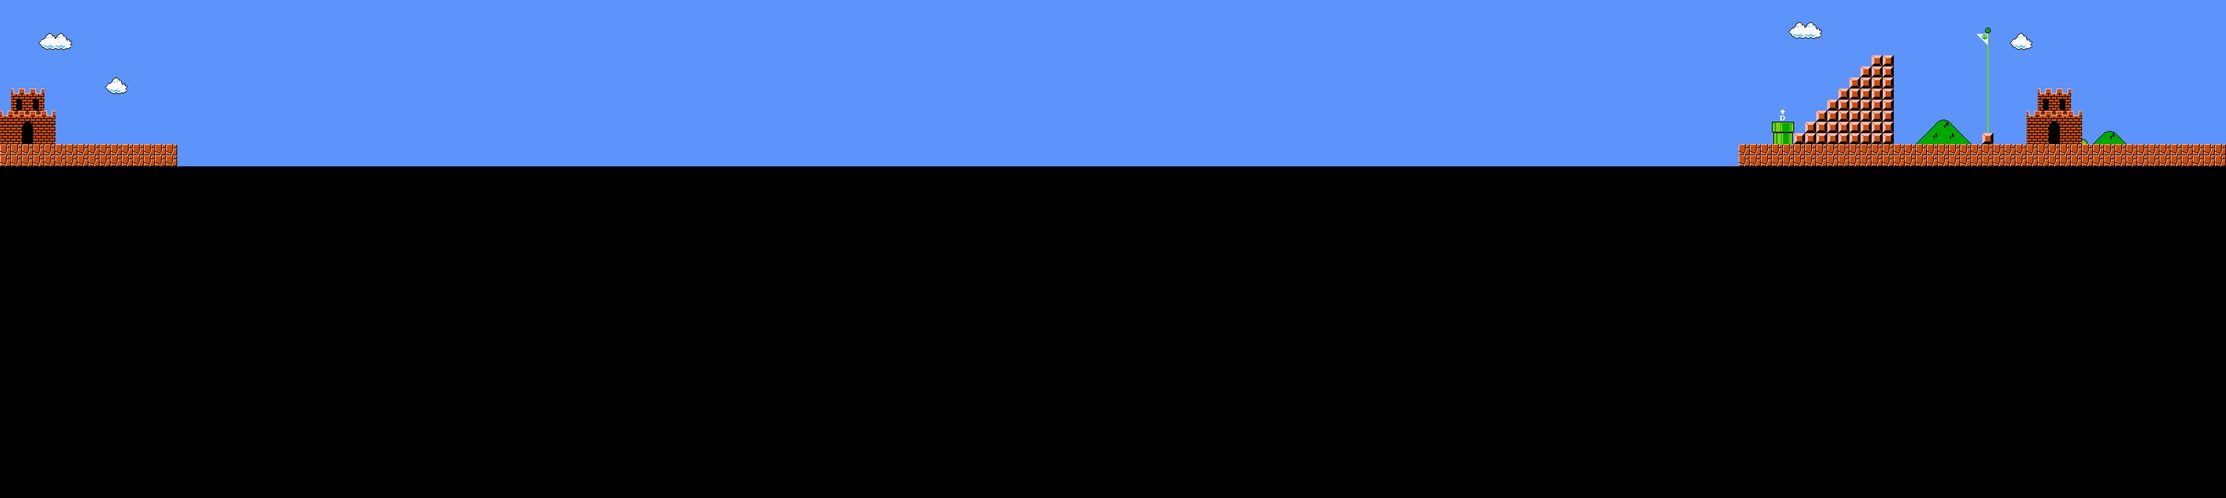
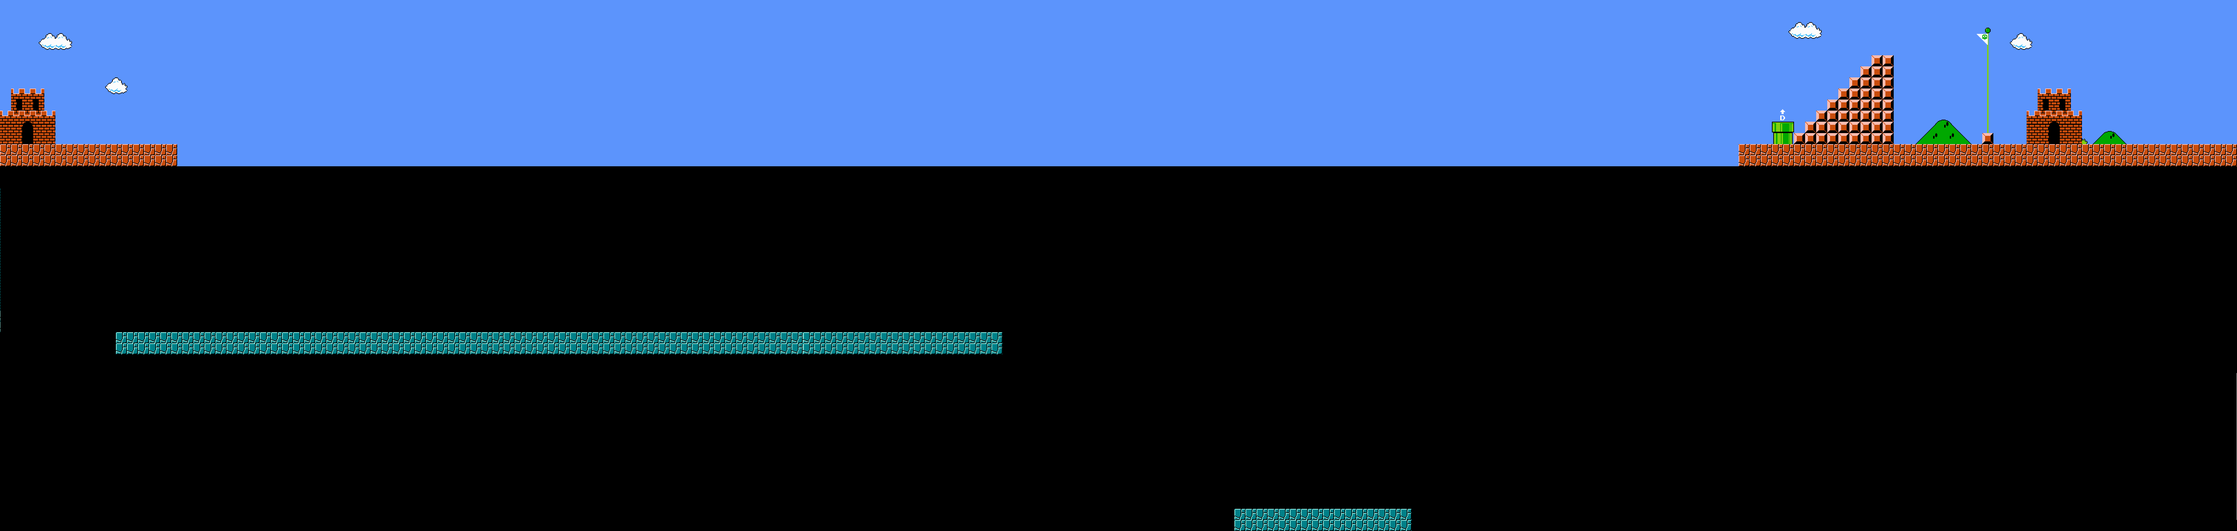
add

diff --git a/include/Level/Level2.hpp b/include/Level/Level2.hpp
@@ -8,11 +8,11 @@
 class Level2 final : public Level {
 public:
     Level2() : Level() {
-        m_Background = std::make_shared<Map>(RESOURCE_DIR "/image/Background/Level2/level_2.png",glm::vec2(-3216,720),glm::vec2(-640,360));
+        m_Background = std::make_shared<Map>(RESOURCE_DIR "/image/Background/Level2/level_2.png",glm::vec2(-3216,768),glm::vec2(-640,360));
 
         m_ManagerManager = std::make_shared<ManagerManager>(Items,Blocks,Monsters,FireBalls,m_Mario,m_renderer,m_Background);
 
-        m_ManagerManager->SetFloor(FloorBlock, -13.5);
+        m_ManagerManager->SetFloor(FloorBlock, FloorBlockSize);
         m_ManagerManager->SetBlock(LuckyBLock, BlockType::Lucky);
         // m_ManagerManager->SetBlock(OriginBlock, BlockType::Original);
         m_ManagerManager->SetBlock(FootBlock, BlockType::Foot);
@@ -24,12 +24,13 @@ public:
         m_ManagerManager->SetBlock(BlueOriginalBlock, BlockType::Blue_Original);
         m_ManagerManager->SetBlock(BlueFootBLock, BlockType::Blue_Foot);
         m_ManagerManager->SetBlock(AirBlock, BlockType::Air);
+        m_ManagerManager->SetBlock(Elevator,BlockType::Elevator);
         m_ManagerManager->SetBlock(HorizontalPipe_64_64,BlockType::HorizontalPipe_64_64);
         m_ManagerManager->SetBlock(LongPipe,BlockType::LongPipe);
 
         m_ManagerManager->SetItem(Item_Mushroom, ItemType::Item_Mushroom);
         // m_ManagerManager->SetItem(Item_FireFlower, ItemType::Item_FireFlower);
-         m_ManagerManager->SetItem(Item_Coin, ItemType::Item_Coin);
+        m_ManagerManager->SetItem(Item_Coin, ItemType::Item_Coin);
         // m_ManagerManager->SetItem(Item_Star,ItemType::Item_Star);
         m_ManagerManager->SetItem(Item_OutSideCoin, ItemType::Item_OutSideCoin);
 
@@ -47,12 +48,13 @@ public:
     };
 private:
 
-    std::vector<float> FloorBlock = {};
+    std::vector<glm::vec2> FloorBlock = {{100.5,-14},{50.5f,-31},{120.5,-47}};
+    std::vector<glm::vec2> FloorBlockSize = {{201.f,2.0f},{79.0f,2.0f},{18,2.0f}};
     std::vector<glm::vec2> BlueOriginalBlock = {
     {171.5,-18.5}, {172.5,-18.5}, {173.5,-18.5}, {174.5,-18.5}, {175.5,-18.5}, {176.5,-18.5}, {177.5,-18.5}, {180.5,-18.5}, {181.5,-18.5}, {182.5,-18.5}, {183.5,-18.5}, {184.5,-18.5}, {185.5,-18.5}, {186.5,-18.5}, {187.5,-18.5}, {188.5,-18.5}, {189.5,-18.5}, {190.5,-18.5}, {191.5,-18.5}, {192.5,-18.5}, {193.5,-18.5}, {194.5,-18.5}, {195.5,-18.5}, {196.5,-18.5}, {197.5,-18.5}, {198.5,-18.5}, {200.5,-18.5}, {10.5,-19.5}, {16.5,-19.5}, {17.5,-19.5}, {18.5,-19.5}, {19.5,-19.5}, {20.5,-19.5}, {21.5,-19.5}, {22.5,-19.5}, {23.5,-19.5}, {24.5,-19.5}, {25.5,-19.5}, {26.5,-19.5}, {27.5,-19.5}, {28.5,-19.5}, {29.5,-19.5}, {30.5,-19.5}, {31.5,-19.5}, {32.5,-19.5}, {33.5,-19.5}, {34.5,-19.5}, {35.5,-19.5}, {36.5,-19.5}, {37.5,-19.5}, {38.5,-19.5}, {39.5,-19.5}, {40.5,-19.5}, {41.5,-19.5}, {42.5,-19.5}, {43.5,-19.5}, {44.5,-19.5}, {45.5,-19.5}, {46.5,-19.5}, {47.5,-19.5}, {48.5,-19.5}, {49.5,-19.5}, {50.5,-19.5}, {51.5,-19.5}, {52.5,-19.5}, {53.5,-19.5}, {54.5,-19.5}, {55.5,-19.5}, {56.5,-19.5}, {57.5,-19.5}, {58.5,-19.5}, {59.5,-19.5}, {60.5,-19.5}, {61.5,-19.5}, {62.5,-19.5}, {63.5,-19.5}, {64.5,-19.5}, {65.5,-19.5}, {66.5,-19.5}, {67.5,-19.5}, {68.5,-19.5}, {69.5,-19.5}, {70.5,-19.5}, {71.5,-19.5}, {72.5,-19.5}, {73.5,-19.5}, {74.5,-19.5}, {75.5,-19.5}, {76.5,-19.5}, {77.5,-19.5}, {78.5,-19.5}, {79.5,-19.5}, {80.5,-19.5}, {81.5,-19.5}, {82.5,-19.5}, {83.5,-19.5}, {84.5,-19.5}, {85.5,-19.5}, {86.5,-19.5}, {87.5,-19.5}, {88.5,-19.5}, {89.5,-19.5}, {90.5,-19.5}, {91.5,-19.5}, {92.5,-19.5}, {93.5,-19.5}, {94.5,-19.5}, {95.5,-19.5}, {96.5,-19.5}, {97.5,-19.5}, {98.5,-19.5}, {99.5,-19.5}, {100.5,-19.5}, {101.5,-19.5}, {102.5,-19.5}, {103.5,-19.5}, {104.5,-19.5}, {105.5,-19.5}, {106.5,-19.5}, {107.5,-19.5}, {108.5,-19.5}, {109.5,-19.5}, {110.5,-19.5}, {111.5,-19.5}, {112.5,-19.5}, {113.5,-19.5}, {114.5,-19.5}, {115.5,-19.5}, {116.5,-19.5}, {117.5,-19.5}, {118.5,-19.5}, {119.5,-19.5}, {120.5,-19.5}, {121.5,-19.5}, {122.5,-19.5}, {123.5,-19.5}, {124.5,-19.5}, {125.5,-19.5}, {126.5,-19.5}, {127.5,-19.5}, {128.5,-19.5}, {129.5,-19.5}, {130.5,-19.5}, {131.5,-19.5}, {132.5,-19.5}, {133.5,-19.5}, {134.5,-19.5}, {135.5,-19.5}, {136.5,-19.5}, {137.5,-19.5}, {138.5,-19.5}, {139.5,-19.5}, {140.5,-19.5}, {141.5,-19.5}, {142.5,-19.5}, {143.5,-19.5}, {144.5,-19.5}, {145.5,-19.5}, {146.5,-19.5}, {147.5,-19.5}, {171.5,-19.5}, {172.5,-19.5}, {173.5,-19.5}, {174.5,-19.5}, {175.5,-19.5}, {176.5,-19.5}, {177.5,-19.5}, {180.5,-19.5}, {181.5,-19.5}, {182.5,-19.5}, {183.5,-19.5}, {184.5,-19.5}, {185.5,-19.5}, {186.5,-19.5}, {187.5,-19.5}, {188.5,-19.5}, {189.5,-19.5}, {190.5,-19.5}, {191.5,-19.5}, {192.5,-19.5}, {193.5,-19.5}, {194.5,-19.5}, {195.5,-19.5}, {196.5,-19.5}, {197.5,-19.5}, {198.5,-19.5}, {200.5,-19.5}, {10.5,-20.5}, {64.5,-20.5}, {65.5,-20.5}, {68.5,-20.5}, {69.5,-20.5}, {70.5,-20.5}, {71.5,-20.5}, {72.5,-20.5}, {73.5,-20.5}, {76.5,-20.5}, {77.5,-20.5}, {78.5,-20.5}, {79.5,-20.5}, {86.5,-20.5}, {87.5,-20.5}, {88.5,-20.5}, {89.5,-20.5}, {180.5,-20.5}, {181.5,-20.5}, {182.5,-20.5}, {183.5,-20.5}, {184.5,-20.5}, {185.5,-20.5}, {186.5,-20.5}, {187.5,-20.5}, {188.5,-20.5}, {198.5,-20.5}, {200.5,-20.5}, {10.5,-21.5}, {64.5,-21.5}, {65.5,-21.5}, {68.5,-21.5}, {69.5,-21.5}, {70.5,-21.5}, {71.5,-21.5}, {72.5,-21.5}, {73.5,-21.5}, {76.5,-21.5}, {77.5,-21.5}, {78.5,-21.5}, {79.5,-21.5}, {86.5,-21.5}, {87.5,-21.5}, {88.5,-21.5}, {89.5,-21.5}, {180.5,-21.5}, {181.5,-21.5}, {182.5,-21.5}, {183.5,-21.5}, {184.5,-21.5}, {185.5,-21.5}, {186.5,-21.5}, {187.5,-21.5}, {188.5,-21.5}, {198.5,-21.5}, {200.5,-21.5}, {10.5,-22.5}, {62.5,-22.5}, {63.5,-22.5}, {72.5,-22.5}, {73.5,-22.5}, {77.5,-22.5}, {82.5,-22.5}, {83.5,-22.5}, {180.5,-22.5}, {181.5,-22.5}, {182.5,-22.5}, {183.5,-22.5}, {184.5,-22.5}, {185.5,-22.5}, {186.5,-22.5}, {187.5,-22.5}, {188.5,-22.5}, {190.5,-22.5}, {196.5,-22.5}, {198.5,-22.5}, {200.5,-22.5}, {10.5,-23.5}, {62.5,-23.5}, {63.5,-23.5}, {72.5,-23.5}, {73.5,-23.5}, {77.5,-23.5}, {82.5,-23.5}, {83.5,-23.5}, {180.5,-23.5}, {181.5,-23.5}, {182.5,-23.5}, {183.5,-23.5}, {184.5,-23.5}, {185.5,-23.5}, {186.5,-23.5}, {187.5,-23.5}, {188.5,-23.5}, {198.5,-23.5}, {200.5,-23.5}, {10.5,-24.5}, {49.5,-24.5}, {51.5,-24.5}, {52.5,-24.5}, {53.5,-24.5}, {54.5,-24.5}, {56.5,-24.5}, {62.5,-24.5}, {63.5,-24.5}, {72.5,-24.5}, {73.5,-24.5}, {77.5,-24.5}, {82.5,-24.5}, {83.5,-24.5}, {94.5,-24.5}, {95.5,-24.5}, {96.5,-24.5}, {97.5,-24.5}, {98.5,-24.5}, {99.5,-24.5}, {180.5,-24.5}, {181.5,-24.5}, {182.5,-24.5}, {183.5,-24.5}, {184.5,-24.5}, {185.5,-24.5}, {186.5,-24.5}, {187.5,-24.5}, {188.5,-24.5}, {193.5,-24.5}, {198.5,-24.5}, {200.5,-24.5}, {10.5,-25.5}, {39.5,-25.5}, {49.5,-25.5}, {51.5,-25.5}, {54.5,-25.5}, {56.5,-25.5}, {62.5,-25.5}, {63.5,-25.5}, {68.5,-25.5}, {72.5,-25.5}, {73.5,-25.5}, {77.5,-25.5}, {79.5,-25.5}, {82.5,-25.5}, {83.5,-25.5}, {94.5,-25.5}, {95.5,-25.5}, {96.5,-25.5}, {97.5,-25.5}, {98.5,-25.5}, {99.5,-25.5}, {155.5,-25.5}, {156.5,-25.5}, {157.5,-25.5}, {158.5,-25.5}, {159.5,-25.5}, {160.5,-25.5}, {180.5,-25.5}, {181.5,-25.5}, {182.5,-25.5}, {183.5,-25.5}, {184.5,-25.5}, {185.5,-25.5}, {186.5,-25.5}, {187.5,-25.5}, {188.5,-25.5}, {193.5,-25.5}, {198.5,-25.5}, {200.5,-25.5}, {10.5,-26.5}, {49.5,-26.5}, {50.5,-26.5}, {51.5,-26.5}, {54.5,-26.5}, {55.5,-26.5}, {56.5,-26.5}, {62.5,-26.5}, {63.5,-26.5}, {64.5,-26.5}, {65.5,-26.5}, {68.5,-26.5}, {69.5,-26.5}, {70.5,-26.5}, {71.5,-26.5}, {72.5,-26.5}, {73.5,-26.5}, {77.5,-26.5}, {78.5,-26.5}, {79.5,-26.5}, {82.5,-26.5}, {83.5,-26.5}, {86.5,-26.5}, {87.5,-26.5}, {88.5,-26.5}, {89.5,-26.5}, {180.5,-26.5}, {181.5,-26.5}, {182.5,-26.5}, {183.5,-26.5}, {184.5,-26.5}, {185.5,-26.5}, {186.5,-26.5}, {187.5,-26.5}, {188.5,-26.5}, {190.5,-26.5}, {196.5,-26.5}, {198.5,-26.5}, {200.5,-26.5}, {10.5,-27.5}, {64.5,-27.5}, {65.5,-27.5}, {132.5,-27.5}, {133.5,-27.5}, {170.5,-27.5}, {171.5,-27.5}, {172.5,-27.5}, {173.5,-27.5}, {174.5,-27.5}, {175.5,-27.5}, {176.5,-27.5}, {177.5,-27.5}, {178.5,-27.5}, {179.5,-27.5}, {180.5,-27.5}, {181.5,-27.5}, {182.5,-27.5}, {183.5,-27.5}, {184.5,-27.5}, {185.5,-27.5}, {186.5,-27.5}, {187.5,-27.5}, {188.5,-27.5}, {190.5,-27.5}, {196.5,-27.5}, {198.5,-27.5}, {200.5,-27.5}, {10.5,-28.5}, {64.5,-28.5}, {65.5,-28.5}, {132.5,-28.5}, {133.5,-28.5}, {170.5,-28.5}, {171.5,-28.5}, {172.5,-28.5}, {173.5,-28.5}, {174.5,-28.5}, {175.5,-28.5}, {176.5,-28.5}, {177.5,-28.5}, {178.5,-28.5}, {179.5,-28.5}, {180.5,-28.5}, {181.5,-28.5}, {182.5,-28.5}, {183.5,-28.5}, {184.5,-28.5}, {185.5,-28.5}, {186.5,-28.5}, {187.5,-28.5}, {188.5,-28.5}, {191.5,-28.5}, {192.5,-28.5}, {193.5,-28.5}, {194.5,-28.5}, {195.5,-28.5}, {198.5,-28.5}, {200.5,-28.5}, {10.5,-29.5}, {132.5,-29.5}, {133.5,-29.5}, {170.5,-29.5}, {171.5,-29.5}, {172.5,-29.5}, {173.5,-29.5}, {174.5,-29.5}, {175.5,-29.5}, {176.5,-29.5}, {177.5,-29.5}, {178.5,-29.5}, {179.5,-29.5}, {180.5,-29.5}, {181.5,-29.5}, {182.5,-29.5}, {183.5,-29.5}, {184.5,-29.5}, {185.5,-29.5}, {186.5,-29.5}, {187.5,-29.5}, {188.5,-29.5}, {200.5,-29.5}, {111.5,-32.5}, {115.5,-32.5}, {111.5,-33.5}, {115.5,-33.5}, {111.5,-34.5}, {115.5,-34.5}, {111.5,-35.5}, {115.5,-35.5}, {116.5,-35.5}, {117.5,-35.5}, {118.5,-35.5}, {119.5,-35.5}, {120.5,-35.5}, {121.5,-35.5}, {122.5,-35.5}, {123.5,-35.5}, {124.5,-35.5}, {125.5,-35.5}, {126.5,-35.5}, {129.5,-35.5}, {111.5,-36.5}, {115.5,-36.5}, {116.5,-36.5}, {117.5,-36.5}, {118.5,-36.5}, {119.5,-36.5}, {120.5,-36.5}, {121.5,-36.5}, {122.5,-36.5}, {123.5,-36.5}, {124.5,-36.5}, {125.5,-36.5}, {126.5,-36.5}, {129.5,-36.5}, {111.5,-37.5}, {115.5,-37.5}, {116.5,-37.5}, {117.5,-37.5}, {118.5,-37.5}, {119.5,-37.5}, {120.5,-37.5}, {121.5,-37.5}, {122.5,-37.5}, {123.5,-37.5}, {124.5,-37.5}, {125.5,-37.5}, {126.5,-37.5}, {129.5,-37.5}, {111.5,-38.5}, {115.5,-38.5}, {116.5,-38.5}, {117.5,-38.5}, {118.5,-38.5}, {119.5,-38.5}, {120.5,-38.5}, {121.5,-38.5}, {122.5,-38.5}, {123.5,-38.5}, {124.5,-38.5}, {125.5,-38.5}, {126.5,-38.5}, {129.5,-38.5}, {111.5,-39.5}, {125.5,-39.5}, {126.5,-39.5}, {129.5,-39.5}, {111.5,-40.5}, {125.5,-40.5}, {126.5,-40.5}, {129.5,-40.5}, {111.5,-41.5}, {125.5,-41.5}, {126.5,-41.5}, {129.5,-41.5}, {111.5,-42.5}, {115.5,-42.5}, {116.5,-42.5}, {117.5,-42.5}, {118.5,-42.5}, {119.5,-42.5}, {120.5,-42.5}, {121.5,-42.5}, {122.5,-42.5}, {123.5,-42.5}, {124.5,-42.5}, {125.5,-42.5}, {126.5,-42.5}, {129.5,-42.5}, {111.5,-43.5}, {125.5,-43.5}, {126.5,-43.5}, {129.5,-43.5}, {111.5,-44.5}, {129.5,-44.5}, {111.5,-45.5}, {129.5,-45.5}
     };
-    std::vector<glm::vec2> BlueFloorBlock = {
-    {10.5,-30.5}, {11.5,-30.5}, {12.5,-30.5}, {13.5,-30.5}, {14.5,-30.5}, {15.5,-30.5}, {16.5,-30.5}, {17.5,-30.5}, {18.5,-30.5}, {19.5,-30.5}, {20.5,-30.5}, {21.5,-30.5}, {22.5,-30.5}, {23.5,-30.5}, {24.5,-30.5}, {25.5,-30.5}, {26.5,-30.5}, {27.5,-30.5}, {28.5,-30.5}, {29.5,-30.5}, {30.5,-30.5}, {31.5,-30.5}, {32.5,-30.5}, {33.5,-30.5}, {34.5,-30.5}, {35.5,-30.5}, {36.5,-30.5}, {37.5,-30.5}, {38.5,-30.5}, {39.5,-30.5}, {40.5,-30.5}, {41.5,-30.5}, {42.5,-30.5}, {43.5,-30.5}, {44.5,-30.5}, {45.5,-30.5}, {46.5,-30.5}, {47.5,-30.5}, {48.5,-30.5}, {49.5,-30.5}, {50.5,-30.5}, {51.5,-30.5}, {52.5,-30.5}, {53.5,-30.5}, {54.5,-30.5}, {55.5,-30.5}, {56.5,-30.5}, {57.5,-30.5}, {58.5,-30.5}, {59.5,-30.5}, {60.5,-30.5}, {61.5,-30.5}, {62.5,-30.5}, {63.5,-30.5}, {64.5,-30.5}, {65.5,-30.5}, {66.5,-30.5}, {67.5,-30.5}, {68.5,-30.5}, {69.5,-30.5}, {70.5,-30.5}, {71.5,-30.5}, {72.5,-30.5}, {73.5,-30.5}, {74.5,-30.5}, {75.5,-30.5}, {76.5,-30.5}, {77.5,-30.5}, {78.5,-30.5}, {79.5,-30.5}, {80.5,-30.5}, {81.5,-30.5}, {82.5,-30.5}, {83.5,-30.5}, {84.5,-30.5}, {85.5,-30.5}, {86.5,-30.5}, {87.5,-30.5}, {88.5,-30.5}, {89.5,-30.5}, {93.5,-30.5}, {94.5,-30.5}, {95.5,-30.5}, {96.5,-30.5}, {97.5,-30.5}, {98.5,-30.5}, {99.5,-30.5}, {100.5,-30.5}, {101.5,-30.5}, {102.5,-30.5}, {103.5,-30.5}, {104.5,-30.5}, {105.5,-30.5}, {106.5,-30.5}, {107.5,-30.5}, {108.5,-30.5}, {109.5,-30.5}, {110.5,-30.5}, {111.5,-30.5}, {112.5,-30.5}, {113.5,-30.5}, {114.5,-30.5}, {115.5,-30.5}, {116.5,-30.5}, {117.5,-30.5}, {118.5,-30.5}, {119.5,-30.5}, {120.5,-30.5}, {121.5,-30.5}, {122.5,-30.5}, {123.5,-30.5}, {124.5,-30.5}, {125.5,-30.5}, {126.5,-30.5}, {127.5,-30.5}, {128.5,-30.5}, {129.5,-30.5}, {132.5,-30.5}, {133.5,-30.5}, {136.5,-30.5}, {137.5,-30.5}, {138.5,-30.5}, {139.5,-30.5}, {140.5,-30.5}, {141.5,-30.5}, {142.5,-30.5}, {143.5,-30.5}, {144.5,-30.5}, {145.5,-30.5}, {146.5,-30.5}, {147.5,-30.5}, {155.5,-30.5}, {156.5,-30.5}, {157.5,-30.5}, {158.5,-30.5}, {159.5,-30.5}, {160.5,-30.5}, {161.5,-30.5}, {162.5,-30.5}, {170.5,-30.5}, {171.5,-30.5}, {172.5,-30.5}, {173.5,-30.5}, {174.5,-30.5}, {175.5,-30.5}, {176.5,-30.5}, {177.5,-30.5}, {178.5,-30.5}, {179.5,-30.5}, {180.5,-30.5}, {181.5,-30.5}, {182.5,-30.5}, {183.5,-30.5}, {184.5,-30.5}, {185.5,-30.5}, {186.5,-30.5}, {187.5,-30.5}, {188.5,-30.5}, {189.5,-30.5}, {190.5,-30.5}, {191.5,-30.5}, {192.5,-30.5}, {193.5,-30.5}, {194.5,-30.5}, {195.5,-30.5}, {196.5,-30.5}, {197.5,-30.5}, {198.5,-30.5}, {199.5,-30.5}, {200.5,-30.5}, {10.5,-31.5}, {11.5,-31.5}, {12.5,-31.5}, {13.5,-31.5}, {14.5,-31.5}, {15.5,-31.5}, {16.5,-31.5}, {17.5,-31.5}, {18.5,-31.5}, {19.5,-31.5}, {20.5,-31.5}, {21.5,-31.5}, {22.5,-31.5}, {23.5,-31.5}, {24.5,-31.5}, {25.5,-31.5}, {26.5,-31.5}, {27.5,-31.5}, {28.5,-31.5}, {29.5,-31.5}, {30.5,-31.5}, {31.5,-31.5}, {32.5,-31.5}, {33.5,-31.5}, {34.5,-31.5}, {35.5,-31.5}, {36.5,-31.5}, {37.5,-31.5}, {38.5,-31.5}, {39.5,-31.5}, {40.5,-31.5}, {41.5,-31.5}, {42.5,-31.5}, {43.5,-31.5}, {44.5,-31.5}, {45.5,-31.5}, {46.5,-31.5}, {47.5,-31.5}, {48.5,-31.5}, {49.5,-31.5}, {50.5,-31.5}, {51.5,-31.5}, {52.5,-31.5}, {53.5,-31.5}, {54.5,-31.5}, {55.5,-31.5}, {56.5,-31.5}, {57.5,-31.5}, {58.5,-31.5}, {59.5,-31.5}, {60.5,-31.5}, {61.5,-31.5}, {62.5,-31.5}, {63.5,-31.5}, {64.5,-31.5}, {65.5,-31.5}, {66.5,-31.5}, {67.5,-31.5}, {68.5,-31.5}, {69.5,-31.5}, {70.5,-31.5}, {71.5,-31.5}, {72.5,-31.5}, {73.5,-31.5}, {74.5,-31.5}, {75.5,-31.5}, {76.5,-31.5}, {77.5,-31.5}, {78.5,-31.5}, {79.5,-31.5}, {80.5,-31.5}, {81.5,-31.5}, {82.5,-31.5}, {83.5,-31.5}, {84.5,-31.5}, {85.5,-31.5}, {86.5,-31.5}, {87.5,-31.5}, {88.5,-31.5}, {89.5,-31.5}, {93.5,-31.5}, {94.5,-31.5}, {95.5,-31.5}, {96.5,-31.5}, {97.5,-31.5}, {98.5,-31.5}, {99.5,-31.5}, {100.5,-31.5}, {101.5,-31.5}, {102.5,-31.5}, {103.5,-31.5}, {104.5,-31.5}, {105.5,-31.5}, {106.5,-31.5}, {107.5,-31.5}, {108.5,-31.5}, {109.5,-31.5}, {110.5,-31.5}, {111.5,-31.5}, {112.5,-31.5}, {113.5,-31.5}, {114.5,-31.5}, {115.5,-31.5}, {116.5,-31.5}, {117.5,-31.5}, {118.5,-31.5}, {119.5,-31.5}, {120.5,-31.5}, {121.5,-31.5}, {122.5,-31.5}, {123.5,-31.5}, {124.5,-31.5}, {125.5,-31.5}, {126.5,-31.5}, {127.5,-31.5}, {128.5,-31.5}, {129.5,-31.5}, {132.5,-31.5}, {133.5,-31.5}, {136.5,-31.5}, {137.5,-31.5}, {138.5,-31.5}, {139.5,-31.5}, {140.5,-31.5}, {141.5,-31.5}, {142.5,-31.5}, {143.5,-31.5}, {144.5,-31.5}, {145.5,-31.5}, {146.5,-31.5}, {147.5,-31.5}, {155.5,-31.5}, {156.5,-31.5}, {157.5,-31.5}, {158.5,-31.5}, {159.5,-31.5}, {160.5,-31.5}, {161.5,-31.5}, {162.5,-31.5}, {170.5,-31.5}, {171.5,-31.5}, {172.5,-31.5}, {173.5,-31.5}, {174.5,-31.5}, {175.5,-31.5}, {176.5,-31.5}, {177.5,-31.5}, {178.5,-31.5}, {179.5,-31.5}, {180.5,-31.5}, {181.5,-31.5}, {182.5,-31.5}, {183.5,-31.5}, {184.5,-31.5}, {185.5,-31.5}, {186.5,-31.5}, {187.5,-31.5}, {188.5,-31.5}, {189.5,-31.5}, {190.5,-31.5}, {191.5,-31.5}, {192.5,-31.5}, {193.5,-31.5}, {194.5,-31.5}, {195.5,-31.5}, {196.5,-31.5}, {197.5,-31.5}, {198.5,-31.5}, {199.5,-31.5}, {200.5,-31.5}, {111.5,-46.5}, {112.5,-46.5}, {113.5,-46.5}, {114.5,-46.5}, {115.5,-46.5}, {116.5,-46.5}, {117.5,-46.5}, {118.5,-46.5}, {119.5,-46.5}, {120.5,-46.5}, {121.5,-46.5}, {122.5,-46.5}, {123.5,-46.5}, {124.5,-46.5}, {125.5,-46.5}, {126.5,-46.5}, {127.5,-46.5}, {128.5,-46.5}, {129.5,-46.5}, {111.5,-47.5}, {112.5,-47.5}, {113.5,-47.5}, {114.5,-47.5}, {115.5,-47.5}, {116.5,-47.5}, {117.5,-47.5}, {118.5,-47.5}, {119.5,-47.5}, {120.5,-47.5}, {121.5,-47.5}, {122.5,-47.5}, {123.5,-47.5}, {124.5,-47.5}, {125.5,-47.5}, {126.5,-47.5}, {127.5,-47.5}, {128.5,-47.5}, {129.5,-47.5}, {111.5,-48.5}, {112.5,-48.5}, {113.5,-48.5}, {114.5,-48.5}, {115.5,-48.5}, {116.5,-48.5}, {117.5,-48.5}, {118.5,-48.5}, {119.5,-48.5}, {120.5,-48.5}, {121.5,-48.5}, {122.5,-48.5}, {123.5,-48.5}, {124.5,-48.5}, {125.5,-48.5}, {126.5,-48.5}, {127.5,-48.5}, {128.5,-48.5}, {129.5,-48.5}
+     std::vector<glm::vec2> BlueFloorBlock = {
+     {128.5,-46.5},{129.5,-46.5},{129.5,-47.5},{128.5,-47.5},{127.5,-46.5},{128.5,-46.5},{127.5,-47.5},{126.5,-47.5},{125.5,-47.5},{93.5,-30.5}, {94.5,-30.5}, {95.5,-30.5}, {96.5,-30.5}, {97.5,-30.5}, {98.5,-30.5}, {99.5,-30.5}, {100.5,-30.5}, {101.5,-30.5}, {102.5,-30.5}, {103.5,-30.5}, {104.5,-30.5}, {105.5,-30.5}, {106.5,-30.5}, {107.5,-30.5}, {108.5,-30.5}, {109.5,-30.5}, {110.5,-30.5}, {111.5,-30.5}, {112.5,-30.5}, {113.5,-30.5}, {114.5,-30.5}, {115.5,-30.5}, {116.5,-30.5}, {117.5,-30.5}, {118.5,-30.5}, {119.5,-30.5}, {120.5,-30.5}, {121.5,-30.5}, {122.5,-30.5}, {123.5,-30.5}, {124.5,-30.5}, {125.5,-30.5}, {126.5,-30.5}, {127.5,-30.5}, {128.5,-30.5}, {129.5,-30.5}, {132.5,-30.5}, {133.5,-30.5}, {136.5,-30.5}, {137.5,-30.5}, {138.5,-30.5}, {139.5,-30.5}, {140.5,-30.5}, {141.5,-30.5}, {142.5,-30.5}, {143.5,-30.5}, {144.5,-30.5}, {145.5,-30.5}, {146.5,-30.5}, {147.5,-30.5}, {155.5,-30.5}, {156.5,-30.5}, {157.5,-30.5}, {158.5,-30.5}, {159.5,-30.5}, {160.5,-30.5}, {161.5,-30.5}, {162.5,-30.5}, {170.5,-30.5}, {171.5,-30.5}, {172.5,-30.5}, {173.5,-30.5}, {174.5,-30.5}, {175.5,-30.5}, {176.5,-30.5}, {177.5,-30.5}, {178.5,-30.5}, {179.5,-30.5}, {180.5,-30.5}, {181.5,-30.5}, {182.5,-30.5}, {183.5,-30.5}, {184.5,-30.5}, {185.5,-30.5}, {186.5,-30.5}, {187.5,-30.5}, {188.5,-30.5}, {189.5,-30.5}, {190.5,-30.5}, {191.5,-30.5}, {192.5,-30.5}, {193.5,-30.5}, {194.5,-30.5}, {195.5,-30.5}, {196.5,-30.5}, {197.5,-30.5}, {198.5,-30.5}, {199.5,-30.5}, {200.5,-30.5},  {93.5,-31.5}, {94.5,-31.5}, {95.5,-31.5}, {96.5,-31.5}, {97.5,-31.5}, {98.5,-31.5}, {99.5,-31.5}, {100.5,-31.5}, {101.5,-31.5}, {102.5,-31.5}, {103.5,-31.5}, {104.5,-31.5}, {105.5,-31.5}, {106.5,-31.5}, {107.5,-31.5}, {108.5,-31.5}, {109.5,-31.5}, {110.5,-31.5}, {111.5,-31.5}, {112.5,-31.5}, {113.5,-31.5}, {114.5,-31.5}, {115.5,-31.5}, {116.5,-31.5}, {117.5,-31.5}, {118.5,-31.5}, {119.5,-31.5}, {120.5,-31.5}, {121.5,-31.5}, {122.5,-31.5}, {123.5,-31.5}, {124.5,-31.5}, {125.5,-31.5}, {126.5,-31.5}, {127.5,-31.5}, {128.5,-31.5}, {129.5,-31.5}, {132.5,-31.5}, {133.5,-31.5}, {136.5,-31.5}, {137.5,-31.5}, {138.5,-31.5}, {139.5,-31.5}, {140.5,-31.5}, {141.5,-31.5}, {142.5,-31.5}, {143.5,-31.5}, {144.5,-31.5}, {145.5,-31.5}, {146.5,-31.5}, {147.5,-31.5}, {155.5,-31.5}, {156.5,-31.5}, {157.5,-31.5}, {158.5,-31.5}, {159.5,-31.5}, {160.5,-31.5}, {161.5,-31.5}, {162.5,-31.5}, {170.5,-31.5}, {171.5,-31.5}, {172.5,-31.5}, {173.5,-31.5}, {174.5,-31.5}, {175.5,-31.5}, {176.5,-31.5}, {177.5,-31.5}, {178.5,-31.5}, {179.5,-31.5}, {180.5,-31.5}, {181.5,-31.5}, {182.5,-31.5}, {183.5,-31.5}, {184.5,-31.5}, {185.5,-31.5}, {186.5,-31.5}, {187.5,-31.5}, {188.5,-31.5}, {189.5,-31.5}, {190.5,-31.5}, {191.5,-31.5}, {192.5,-31.5}, {193.5,-31.5}, {194.5,-31.5}, {195.5,-31.5}, {196.5,-31.5}, {197.5,-31.5}, {198.5,-31.5}, {199.5,-31.5}, {200.5,-31.5}
     };
     std::vector<glm::vec2> BlueFootBLock = {
         {33.5,-26.5}, {35.5,-26.5}, {146.5,-26.5}, {147.5,-26.5}, {31.5,-27.5}, {33.5,-27.5}, {35.5,-27.5}, {37.5,-27.5}, {41.5,-27.5}, {145.5,-27.5}, {146.5,-27.5}, {147.5,-27.5}, {29.5,-28.5}, {31.5,-28.5}, {33.5,-28.5}, {35.5,-28.5}, {37.5,-28.5}, {41.5,-28.5}, {43.5,-28.5}, {144.5,-28.5}, {145.5,-28.5}, {146.5,-28.5}, {147.5,-28.5}, {27.5,-29.5}, {29.5,-29.5}, {31.5,-29.5}, {33.5,-29.5}, {35.5,-29.5}, {37.5,-29.5}, {41.5,-29.5}, {43.5,-29.5}, {143.5,-29.5}, {144.5,-29.5}, {145.5,-29.5}, {146.5,-29.5}, {147.5,-29.5}
@@ -75,7 +77,9 @@ private:
     std::vector<glm::vec2> AirBlock={
     {15.5,-2.5}, {15.5,-3.5}, {15.5,-4.5}, {15.5,-5.5}, {15.5,-6.5}, {15.5,-7.5}, {15.5,-8.5}, {15.5,-9.5}, {15.5,-10.5}, {15.5,-11.5}, {15.5,-12.5}, {15.5,-13.5}, {15.5,-14.5}
 };
-
+    std::vector<glm::vec2> Elevator = {
+        {151,-27} , {151,-23}
+};
     std::vector<glm::vec2> HorizontalPipe_64_64 = {
     {12.0,-12.0},{126,-45}
 };

diff --git a/src/Manager/BlockManager.cpp b/src/Manager/BlockManager.cpp
@@ -44,6 +44,7 @@ void BlockManager::SetBlock(std::vector<glm::vec2> &positions, const BlockType t
             case BlockType::LongPipe: block = std::make_shared<LongPipe>(glm::vec2(MapPosition.x + pos.x * 48 , MapPosition.y + pos.y * 48));break;
             case BlockType::Floor: block = std::make_shared<FloorBlock>(glm::vec2(MapPosition.x + pos.x * 48 , MapPosition.y + pos.y * 48)); break;
             case BlockType::Air: block = std::make_shared<AirBlock>(glm::vec2(MapPosition.x + pos.x * 48 , MapPosition.y + pos.y * 48)); break;
+            case BlockType::Elevator: block = std::make_shared<Elevator>(glm::vec2(MapPosition.x + pos.x * 48 , MapPosition.y + pos.y * 48)); break;
             case BlockType::Blue_Floor: block = std::make_shared<BlueFloorBlock>(glm::vec2(MapPosition.x + pos.x * 48 , MapPosition.y + pos.y * 48));break;
             case BlockType::Blue_Foot: block = std::make_shared<BlueFootBlock>(glm::vec2(MapPosition.x + pos.x * 48 , MapPosition.y + pos.y * 48));break;
             case BlockType::Blue_Original: block = std::make_shared<BlueOriginalBlock>(glm::vec2(MapPosition.x + pos.x * 48 , MapPosition.y + pos.y * 48));break;
@@ -62,25 +63,11 @@ void BlockManager::SetBlock(std::vector<glm::vec2> &positions, const BlockType t
         if (block) AddBlock(block);
     }
 }
-void BlockManager::SetFloor(std::vector<float> &Position, const float Floor_y) const{
-    for(float i = 0.5f ; i <= MapSize.x / 48 ; i++) {
-        bool Build = true;
-        for(const float position : Position) {
-            if(position == i) {
-                Build = false;
-            }
-        }
-        if(Build) {
-            auto temp = std::make_shared<FloorBlock>(glm::vec2(MapPosition.x + i * 48 , MapPosition.y + Floor_y * 48));
-            temp->SetSize({1.65,1.5});
-            temp->SetZIndex(2);
-            AddBlock(temp);
-
-            temp = std::make_shared<FloorBlock>(glm::vec2(MapPosition.x + i * 48 , MapPosition.y + (Floor_y - 1) * 48));
-            temp->SetSize({1.65,1.5});
-            temp->SetZIndex(2);
-            AddBlock(temp);
-
-        }
+void BlockManager::SetFloor(const std::vector<glm::vec2>& Position,const std::vector<glm::vec2>& Size) const{
+    for (int i = 0; i < Position.size(); i++) {
+        std::shared_ptr<AirBlock> BigAirBlock = std::make_shared<AirBlock> (glm::vec2(MapPosition.x + Position[i].x * 48 , MapPosition.y + Position[i].y * 48));
+        BigAirBlock->SetSize({Size[i].x * 1.5,Size[i].y* 1.5});
+        BigAirBlock->SetZIndex(100);
+        AddBlock(BigAirBlock);
     }
 }

diff --git a/include/Level/Level1.hpp b/include/Level/Level1.hpp
@@ -15,7 +15,8 @@ class Level1 : public Level{
 
             m_ManagerManager = std::make_shared<ManagerManager>(Items,Blocks,Monsters,FireBalls,m_Mario,m_renderer,m_Background);
 
-            m_ManagerManager->SetFloor(FloorBlock, -13.5);
+            m_ManagerManager->SetFloor(FloorBlock, FloorSize);
+
             m_ManagerManager->SetBlock(LuckyBlockPosition, BlockType::Lucky);
             m_ManagerManager->SetBlock(OriginBlock, BlockType::Original);
             m_ManagerManager->SetBlock(FootBlock, BlockType::Foot);
@@ -120,7 +121,8 @@ class Level1 : public Level{
     {148.5, -12.5}, {149.5, -12.5}, {150.5, -12.5}, {151.5, -12.5}, {152.5, -12.5}, {149.5, -11.5}, {150.5, -11.5}, {151.5, -11.5}, {152.5, -11.5}, {150.5, -10.5}, {151.5, -10.5}, {152.5, -10.5}, {151.5, -9.5}, {152.5, -9.5},{158.5, -12.5}, {157.5, -12.5}, {156.5, -12.5}, {155.5, -12.5}, {157.5, -11.5}, {156.5, -11.5}, {155.5, -11.5}, {156.5, -10.5}, {155.5, -10.5}, {155.5, -9.5},
     {181.5, -12.5}, {182.5, -12.5}, {183.5, -12.5}, {184.5, -12.5}, {185.5, -12.5}, {186.5, -12.5}, {187.5, -12.5}, {188.5, -12.5}, {189.5, -12.5}, {182.5, -11.5}, {183.5, -11.5}, {184.5, -11.5}, {185.5, -11.5}, {186.5, -11.5}, {187.5, -11.5}, {188.5, -11.5}, {189.5, -11.5}, {183.5, -10.5}, {184.5, -10.5}, {185.5, -10.5}, {186.5, -10.5}, {187.5, -10.5}, {188.5, -10.5}, {189.5, -10.5}, {184.5, -9.5}, {185.5, -9.5}, {186.5, -9.5}, {187.5, -9.5}, {188.5, -9.5}, {189.5, -9.5}, {185.5, -8.5}, {186.5, -8.5}, {187.5, -8.5}, {188.5, -8.5}, {189.5, -8.5}, {186.5, -7.5}, {187.5, -7.5}, {188.5, -7.5}, {189.5, -7.5}, {187.5, -6.5}, {188.5, -6.5}, {189.5, -6.5}, {188.5, -5.5}, {189.5, -5.5}, {189.5, -4.5}
        ,{198.5, -12.5}};
-       std::vector<float> FloorBlock = {69.5f, 70.5f , 86.5f , 87.5f , 88.5f , 153.5f ,154.5f};
+        std::vector<glm::vec2> FloorBlock = {{34.5,-14},{78.5,-14},{120.5,-14},{189.0f,-14}};
+        std::vector<glm::vec2> FloorSize = {{69.0f,2.0f},{15.0f,2.0f},{64.0f,2.0f},{69.0f,2.0f}};
 
         std::vector<glm::vec2> Pipe_64_64 = {{29,-12},{164,-12},{180,-12}};
         std::vector<glm::vec2> Pipe_64_96 = {{39,-11.5}};

diff --git a/src/Block/Elevator.cpp b/src/Block/Elevator.cpp
@@ -1,0 +1,25 @@
+//
+// Created by benson on 2025/5/17.
+//
+#include "Block/Elevator.hpp"
+Elevator::Elevator(const glm::vec2 &position) : SceneObject(RESOURCE_DIR"/image/Background/Level2/Block/Elevator.png", position){
+
+}
+void Elevator::hit(const std::shared_ptr<Mario> &Mario) {
+    (void)Mario;
+}
+
+void Elevator::Move() {
+    if(this->way == Left) {
+        this->SetPosition({this->GetPosition().x,this->GetPosition().y - 1.5});
+    }
+    else {
+        this->SetPosition({this->GetPosition().x,this->GetPosition().y + 1.5});
+    }
+    if (this->GetPosition().y >= 800) {
+        this->SetPosition({this->GetPosition().x,this->GetPosition().y - 800.0f});
+    }
+    else if(this->GetPosition().y <= 800){
+        this->SetPosition({this->GetPosition().x,this->GetPosition().y + 800.0f});
+    }
+}

diff --git a/include/Manager/BlockManager.hpp b/include/Manager/BlockManager.hpp
@@ -21,6 +21,7 @@
 #include "Block/Flag.hpp"
 #include "Block/FlagBall.hpp"
 #include "Block/FlagPole.hpp"
+#include "Block/Elevator.hpp"
 class BlockManager {
 public:
     BlockManager(
@@ -29,7 +30,7 @@ public:
         std::shared_ptr<std::unordered_map<BlockType,std::vector<std::shared_ptr<SceneObject>>>>& Blocks);
 
     void AddBlock(const std::shared_ptr<SceneObject>& block) const;
-    void SetFloor(std::vector<float> &Position,float Floor_y) const;
+    void SetFloor(const std::vector<glm::vec2>& Position,const std::vector<glm::vec2>& Size) const;
     void SetBlock(std::vector<glm::vec2> &positions, BlockType type) const;
     void SetAnotherMap(const std::vector<glm::vec2> &positions,const std::vector<glm::vec2> &positions_) const;
 private:

diff --git a/src/Manager/GravityManager.cpp b/src/Manager/GravityManager.cpp
@@ -25,6 +25,7 @@ void GravityManager::Update() {
                 const float deltaTime = (Util::Time::GetElapsedTimeMs() - object->GetFallingTime()) / 1000.0f;
                 const float gravityNow = object->GetGravity();
                 const float gravityNext = gravityNow + gravity * deltaTime;
+
                 object->SetGravity(gravityNext);
                 object->SetFalling(true);
             }
@@ -32,7 +33,6 @@ void GravityManager::Update() {
                 if(object->GetWCollision()) {
                     object->SetGravity(0.0f);
                     object->SetFalling(false);
-
                 }
             }
             object->SetFallingTime(Util::Time::GetElapsedTimeMs());

diff --git a/include/Block/Elevator.hpp b/include/Block/Elevator.hpp
@@ -1,0 +1,24 @@
+//
+// Created by benson on 2025/5/17.
+//
+
+#ifndef ELEVATOR_HPP
+#define ELEVATOR_HPP
+#include "Object/SceneObject.hpp"
+
+class Elevator : public SceneObject {
+    public:
+        explicit Elevator(const glm::vec2 &position);
+        void Move();
+        Way GetWay() const {
+            return way;
+        }
+        void SetWay(const Way way) {
+            this->way = way;
+        }
+        BlockType GetType() override {return BlockType::Elevator;};
+        void hit(const std::shared_ptr<Mario> &Mario) override;
+    private:
+        Way way = Way::Left;
+};
+#endif //ELEVATOR_HPP

diff --git a/include/Manager/ManagerManager.hpp b/include/Manager/ManagerManager.hpp
@@ -42,8 +42,8 @@ class ManagerManager {
     void SetBlock(std::vector<glm::vec2> &positions, const BlockType type) const{
         BlockManager_->SetBlock(positions, type);
     }
-    void SetFloor(std::vector<float> &Position, const float Floor_y) const {
-        BlockManager_->SetFloor(Position,Floor_y);
+    void SetFloor(const std::vector<glm::vec2>& Position,const std::vector<glm::vec2>& Size) const {
+        BlockManager_->SetFloor(Position,Size);
     }
     void SetItem(std::vector<glm::vec2>& Position, const ItemType type) const{
         ItemManager_->SetItem(Position, type);

diff --git a/include/Manager/MapManager.hpp b/include/Manager/MapManager.hpp
@@ -26,8 +26,6 @@ class MapManager {
         void Update() const {
             GameObject_Move();
             CtlMarioPipeMove();
-
-
         }
     private:
         std::shared_ptr<Mario>& Mario_;

diff --git a/include/Manager/MarioManager.hpp b/include/Manager/MarioManager.hpp
@@ -10,7 +10,7 @@
 #include "Block/Pipe_64_64.hpp"
 #include "Block/Pipe_64_96.hpp"
 #include "Block/Pipe_64_128.hpp"
-
+#include <iostream>
 class MarioManager {
     public:
         MarioManager(

diff --git a/include/Object/SceneObject.hpp b/include/Object/SceneObject.hpp
@@ -21,6 +21,7 @@ enum class BlockType {
     Blue_Foot,
     Blue_Original,
     Air,
+    Elevator,
     flag,
     flagball,
     flagpole
